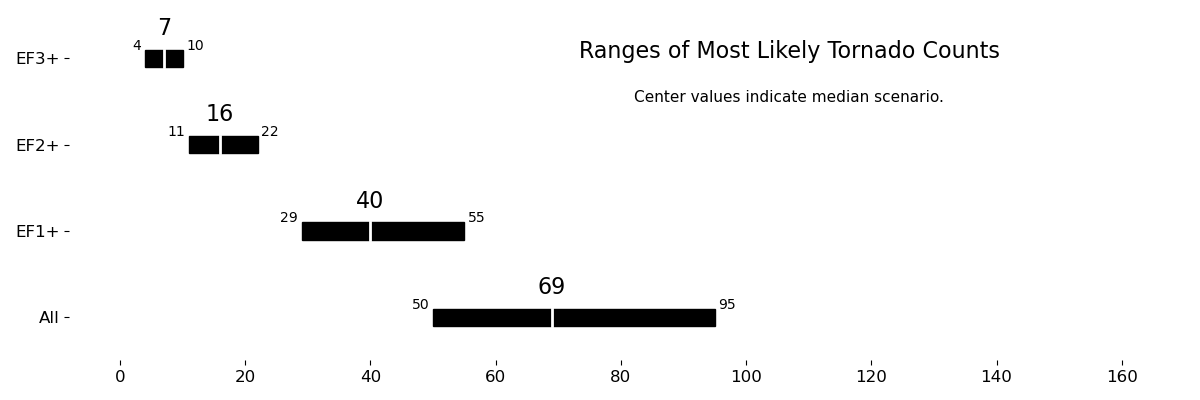
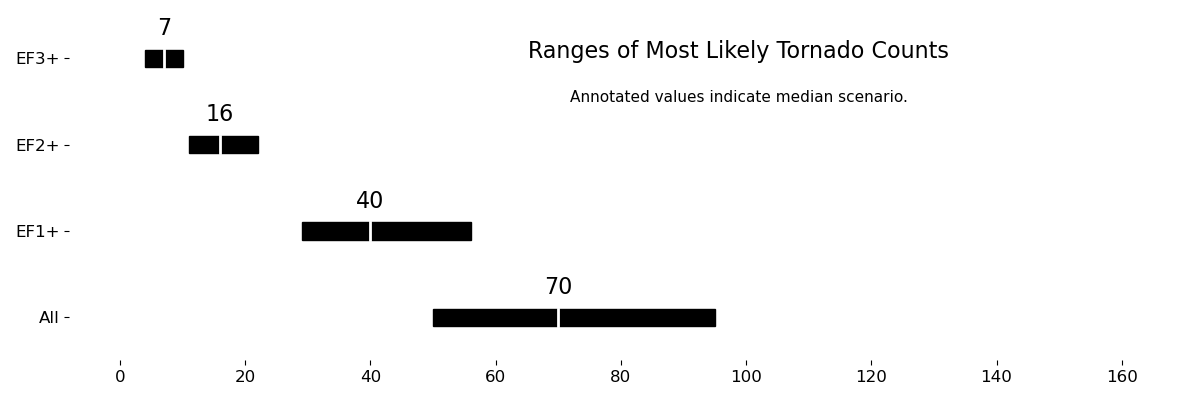
Removed range annotations and forced x-axis ticks to be int

diff --git a/processor.py b/processor.py
@@ -5,7 +5,8 @@ from scipy import stats
 from skimage import measure
 
 import matplotlib.pyplot as plt
-import matplotlib.cbook as cbook
+from matplotlib.cbook import boxplot_stats
+from matplotlib.ticker import MaxNLocator
 
 _synthetic_tornado_fields = ["rating"]
 
@@ -176,10 +177,10 @@ class TorProbSim(object):
 
             # Get percentiles and round to integers
             box_list = [
-                cbook.boxplot_stats(cs[0])[0],
-                cbook.boxplot_stats(cs[1])[0],
-                cbook.boxplot_stats(cs[2])[0],
-                cbook.boxplot_stats(cs[3])[0]
+                boxplot_stats(cs[0])[0],
+                boxplot_stats(cs[1])[0],
+                boxplot_stats(cs[2])[0],
+                boxplot_stats(cs[3])[0]
             ]
 
             for i in range(0,cs.shape[0]):
@@ -197,25 +198,9 @@ class TorProbSim(object):
 
             # Formatting x-axis limits
             x_min, x_max = ax.get_xlim()
-            
             if x_max < 10:
                 x_max = 10
                 ax.set_xlim([0,x_max])
-            
-            h_off *= x_max/100
-
-            # Annotating range values on boxplots
-            for idx,whisker in enumerate(box['whiskers']):
-                if idx % 2 == 0:
-                    right, left = whisker.get_xdata()
-                    ha='right'
-                    # Right
-                    ax.text(right-h_off,int(idx/2)+v_off[1],f'{int(right)}',ha=ha,fontsize=sizes[1])
-                else:
-                    left, right = whisker.get_xdata()
-                    ha='left'
-                    # Left
-                    ax.text(left+h_off,int(idx/2)+v_off[1],f'{int(left)}',ha=ha,fontsize=sizes[1])
 
             # Plot aesthetics
             ax.spines['right'].set_visible(False)
@@ -223,12 +208,15 @@ class TorProbSim(object):
             ax.spines['left'].set_visible(False)
             ax.spines['bottom'].set_visible(False)
 
+            # Make sure x-axis ticks are on integers
+            ax.xaxis.set_major_locator(MaxNLocator(integer=True))
+
             ax.set_yticklabels(['All','EF1+','EF2+','EF3+'])
             ax.tick_params(labelsize=12)
 
             # Title and Other Info
-            ax.text((x_max-x_min)*.6,4,'Ranges of Most Likely Tornado Counts',ha='center',fontsize=sizes[0])
-            ax.text((x_max-x_min)*.6,3.5,'Center values indicate median scenario.',ha='center',fontsize=sizes[2])
+            ax.text((x_max-x_min)*.6+x_min,4,'Ranges of Most Likely Tornado Counts',ha='center',fontsize=sizes[0])
+            ax.text((x_max-x_min)*.6+x_min,3.5,'Annotated values indicate median scenario.',ha='center',fontsize=sizes[2])
 
             plt.setp(box['boxes'],facecolor='black')
             plt.setp(box['medians'],linewidth=2,color='white')
